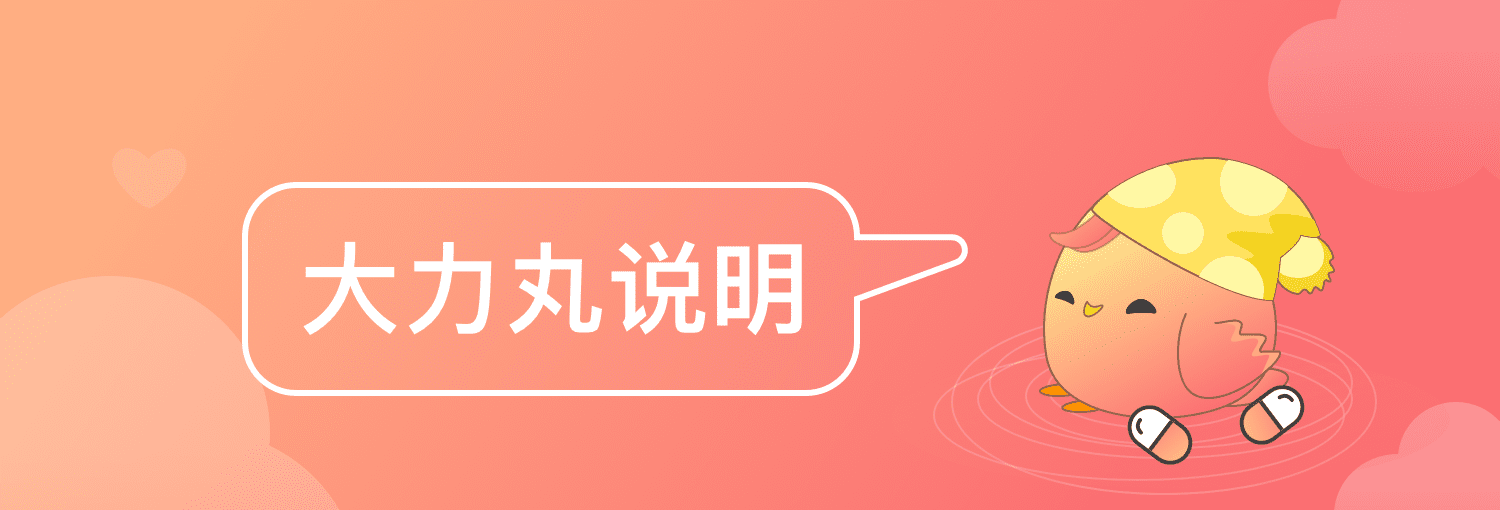
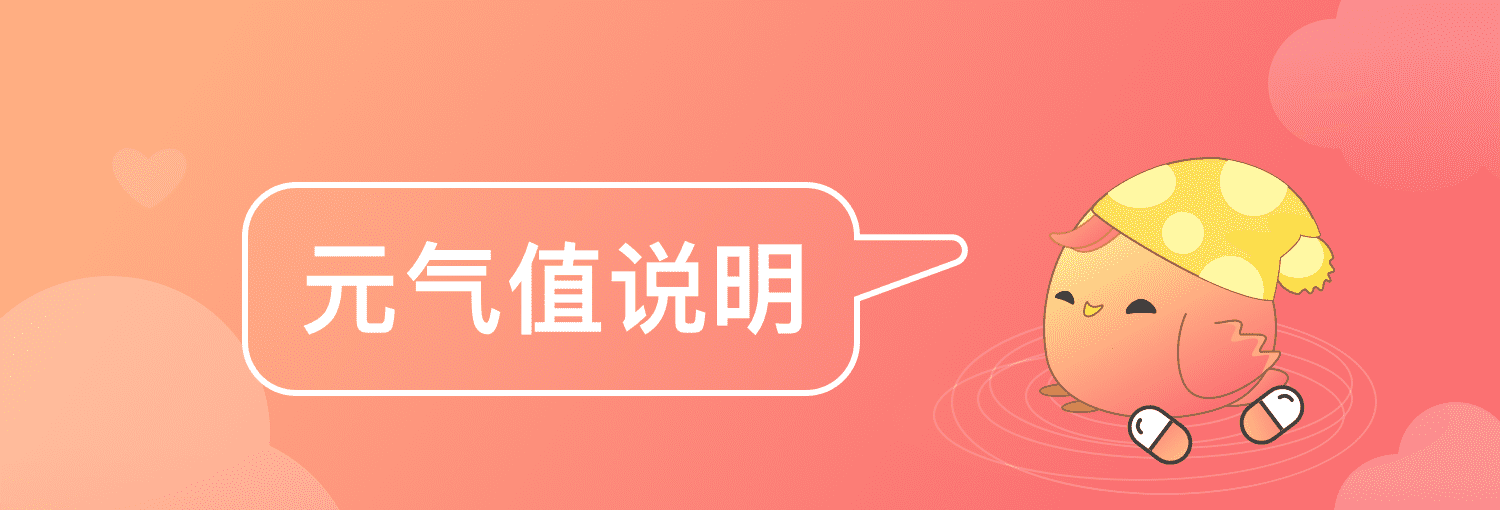
能量值 -> 元气值

diff --git a/src/utils/rules.js b/src/utils/rules.js
@@ -1,30 +1,30 @@
 export const wanRules = [{
-        title: '一、什么是能量值',
+        title: '一、什么是元气值',
         content: [
-            '能量值是由盛世伟杰（北京）广告有限公司推出的游戏代币，可以兑换福利商城中的虚拟礼品，吃喝玩乐、大牌商品随心兑。',
+            '元气值是由盛世伟杰（北京）广告有限公司推出的游戏代币，可以兑换福利商城中的虚拟礼品，吃喝玩乐、大牌商品随心兑。',
         ],
     },
     {
-        title: '二、如何获得能量值',
+        title: '二、如何获得元气值',
         content: [
-            '1：每日登录可获得一定的能量值，每连续登录7天为一个周期，连续登录21天，有惊喜等你。',
-            '2：邀请好友可获得能量值，每成功邀请一个好友完成登录，可获得2能量值，最多每天可以获得10个能量值。',
-            '3：揍小鸡可获得能量值，揍小鸡获得的能量值数量随机，一定概率会出现暴击，暴击获得双倍能量值。',
+            '1：每日登录可获得一定的元气值，每连续登录7天为一个周期，连续登录21天，有惊喜等你。',
+            '2：邀请好友可获得元气值，每成功邀请一个好友完成登录，可获得2元气值，最多每天可以获得10个元气值。',
+            '3：揍小鸡可获得元气值，揍小鸡获得的元气值数量随机，一定概率会出现暴击，暴击获得双倍元气值。',
         ],
     },
     {
-        title: '三、能量值有效期',
+        title: '三、元气值有效期',
         content: [
-            '1：能量值获得之日起一年有效，如果在有效期内没有使用，将在次年该月月底失效。',
-            '例如：在2019年10月1日获得的能量值，将在2020年10月31日过期失效。',
-            '2：过期计算公式：本月过期能量值=上一年同月所得的能量值总和-上一年度同月所得能量值中被消费的能量值。',
-            '说明：能量值消费时，优先使用最近失效的能量值。',
+            '1：元气值获得之日起一年有效，如果在有效期内没有使用，将在次年该月月底失效。',
+            '例如：在2019年10月1日获得的元气值，将在2020年10月31日过期失效。',
+            '2：过期计算公式：本月过期元气值=上一年同月所得的元气值总和-上一年度同月所得元气值中被消费的元气值。',
+            '说明：元气值消费时，优先使用最近失效的元气值。',
         ],
     },
     {
         title: '四、特殊说明',
         content: [
-            '严禁通过作弊、不正当、非法手段等刷取能量值，一旦发现，将对作弊违规者严厉处罚，包括但不限于能量值一次性清零、回收全部权益、封禁账户等。严重者，追究其法律责任。',
+            '严禁通过作弊、不正当、非法手段等刷取元气值，一旦发现，将对作弊违规者严厉处罚，包括但不限于元气值一次性清零、回收全部权益、封禁账户等。严重者，追究其法律责任。',
         ],
     },
 ];

diff --git a/src/pages/major/mine/index.vue b/src/pages/major/mine/index.vue
@@ -2,7 +2,7 @@
   <div class="wrapper">
     <home-bar />
     <div class="summary" :class="{iphoneX: isIphoneX}">
-      <div class="info">{{userInfo.nickName || '我'}}的能量值</div>
+      <div class="info">{{userInfo.nickName || '我'}}的元气值</div>
       <div class="score">{{userData.score || 0}}</div>
       <div
         v-if="userInfo.nickName"
@@ -27,7 +27,7 @@
           </div>
         </div>
         <sign v-if="openId" :openId="openId" :signedDays="signedDays" />
-        <button open-type="share" class="share-button breath-animate">邀请好友立得100能量值</button>
+        <button open-type="share" class="share-button breath-animate">邀请好友立得100元气值</button>
         <scroll-tips />
       </div>
       <div class="section section-shadow">
@@ -64,7 +64,7 @@
         </div>
       </div>
     </div>
-    <sign-modal :show="signedInfo.isSigned" :title="`能量值+${signedInfo.score}`" />
+    <sign-modal :show="signedInfo.isSigned" :title="`元气值+${signedInfo.score}`" />
   </div>
 </template>
 <script>
@@ -134,7 +134,7 @@ export default {
   methods: {
     signed() {
       updateSignState(this.openId, res => {
-        // 打卡成功后 拉去最新的能量值数据
+        // 打卡成功后 拉去最新的元气值数据
         this.getUserData();
         this.signedInfo = {
           ...res,

diff --git a/src/pages/sub/order/booking/index.vue b/src/pages/sub/order/booking/index.vue
@@ -9,7 +9,7 @@
           <div
             v-if="!!goodsInfo.goodDownVirtual"
             class="source-price"
-          >{{goodsInfo.goodVirtual || 0}}能量值</div>
+          >{{goodsInfo.goodVirtual || 0}}元气值</div>
         </div>
         <div class="source-price">实际商品价格：{{goodsInfo.goodPrice || 0}}元</div>
       </div>
@@ -41,10 +41,10 @@
     </div>
     <div class="footer" :class="{'iphoneX-bottom': isIphoneX}">
       <div class="footer-left">
-        <div class="text">剩余能量值</div>
+        <div class="text">剩余元气值</div>
         {{userData.score}}
       </div>
-      <div @click="handleBooking" class="footer-right">{{canBuy ? "立即兑换" : "能量值不足，去赚取"}}</div>
+      <div @click="handleBooking" class="footer-right">{{canBuy ? "立即兑换" : "元气值不足，去赚取"}}</div>
     </div>
   </div>
 </template>
@@ -66,7 +66,7 @@ export default {
   },
   onLoad(param) {
     // fetch prizes info
-    // fetch 能量值 info
+    // fetch 元气值 info
     this.param = param;
     this.fetchGoodsInfo();
     this.getUserData();

diff --git a/src/pages/major/poult/components/poult.vue b/src/pages/major/poult/components/poult.vue
@@ -27,12 +27,12 @@ export default {
     return {
       wanList: [],
       beatCount: 0, // 点击次数
-      hitTotalScore: 0, // 获得总能量值
+      hitTotalScore: 0, // 获得总元气值
       serialCount: 0, // 300ms 内连续点击的次数 -> 提高概率
       doubleCount: 0, // 暴击次数
       beatTimer: null, // debounce timerid
       serialDuration: 300, // 连续点击 timer 间隔
-      rate: 5, // 单次点击获得能量值概率 %
+      rate: 5, // 单次点击获得元气值概率 %
 
       statusIndex: 0, //当前timer 随机取值
       animateTimer: null,
@@ -159,7 +159,7 @@ export default {
         const minScore = Math.min(this.restThisPoultScore, this.restTotalScore);
         if (this.hitTotalScore >= minScore) {
           // NOTE: 提示语改一下
-          console.log("这只鸡已经挨揍了50次，再打也不会获得能量值了");
+          console.log("这只鸡已经挨揍了50次，再打也不会获得元气值了");
         } else if (value) {
           this.hitTotalScore += value;
           if (this.hitTotalScore >= minScore) {

diff --git a/src/pages/major/poult/index.vue b/src/pages/major/poult/index.vue
@@ -59,7 +59,7 @@
     <image class="cloud clound-2" src="/static/cloud2.png" />
     <image class="cloud clound-3" src="/static/cloud3.png" />
 
-    <sign-modal :show="signedInfo.isSigned" :title="`能量值+${signedInfo.score}`" />
+    <sign-modal :show="signedInfo.isSigned" :title="`元气值+${signedInfo.score}`" />
     <!-- <cut-mark v-if="showCut"></cut-mark> -->
     <view class="cut-mark" v-if="showCut">
       <view class="cut-content">
@@ -90,7 +90,7 @@ import { handleSign as updateSignState, fetchUserData } from "@/services";
 export default {
   data() {
     return {
-      totalScore: 0, // 获得总能量值
+      totalScore: 0, // 获得总元气值
       pageShow: true, // 当前页面是否onShow
       invate_openId: null, //邀请人Opoenid
       hitOpenId: "",
@@ -261,7 +261,7 @@ export default {
      */
     handleSign() {
       updateSignState(this.openId, res => {
-        // 打卡成功后 拉去最新的能量值数据
+        // 打卡成功后 拉去最新的元气值数据
         this.fetchIndexData();
         this.signedInfo = {
           ...res,

diff --git a/src/pages/sub/mine/score-detail/index.vue b/src/pages/sub/mine/score-detail/index.vue
@@ -2,13 +2,13 @@
   <div class="wrapper">
     <div class="header">
       <div @click="handleNavigateTo" class="tips">
-        了解能量值
+        了解元气值
         <image class="tips-icon" src="/static/wan.png" />
       </div>
       <div class="header-content">
         <div class="count">{{userData.score}}</div>
-        <div class="info">我的能量值余额</div>
-        <button open-type="share" class="button breath-animate">邀请好友赚100能量值</button>
+        <div class="info">我的元气值余额</div>
+        <button open-type="share" class="button breath-animate">邀请好友赚100元气值</button>
       </div>
     </div>
     <scroll-view scroll-y class="content" @scrolltolower="handleLoadData">

diff --git a/src/pages/sub/mine/prizes-list/components/prizeItem.vue b/src/pages/sub/mine/prizes-list/components/prizeItem.vue
@@ -10,7 +10,7 @@
         >{{prize.goodDownVirtual || prize.goodVirtual || 0}}</text>
         <text
           :class="['prize-source-price', !!prize.goodDownVirtual ? 'disabled' : '']"
-        >{{prize.goodVirtual}}能量值</text>
+        >{{prize.goodVirtual}}元气值</text>
       </div>
       <div class="prize-changeNum">已兑换: {{prize.exchangeNum || 0}}</div>
       <div class="prize-remainNum">剩余: {{prize.goodNum}}</div>

diff --git a/src/pages/sub/mine/rules/index.vue b/src/pages/sub/mine/rules/index.vue
@@ -4,7 +4,7 @@
       <image mode="aspectFill" class="header-bg" src="/static/rules_bg.png" />
     </view>
     <view class="content">
-      <view class="content-title">能量值说明</view>
+      <view class="content-title">元气值说明</view>
       <view class="rule-list" v-for="(item, index) in wanRules" :key="index">
         <view class="rule-title" v-if="item.title">{{item.title}}</view>
         <view class="rule-content">

diff --git a/src/pages/major/mine/components/goods-list/index.vue b/src/pages/major/mine/components/goods-list/index.vue
@@ -10,7 +10,7 @@
               <div>
                 <div
                   :class="['prizes-source-price', !!item.goodDownVirtual ? 'disabled' : '']"
-                >{{item.goodVirtual}}能量值</div>
+                >{{item.goodVirtual}}元气值</div>
                 <div v-if="!!item.goodDownVirtual" class="prizes-price">{{item.goodDownVirtual}}</div>
               </div>
             </div>

diff --git a/src/store/index.js b/src/store/index.js
@@ -11,7 +11,7 @@ const store = new Vuex.Store({
         isIphoneX: false,
         bookingSuccessTips: '',
         publicKey: '', // RSA 加密KEY
-        hitRate: 5, // 命中能量值概率
+        hitRate: 5, // 命中元气值概率
         gainRate: 5, // 暴击概率
         scoreList: [1, 2, 3], // 随机分值表
         rateConfig: {}

diff --git a/src/pages/sub/order/detail/index.vue b/src/pages/sub/order/detail/index.vue
@@ -6,7 +6,7 @@
         <div class="info">
           <div class="item-title">{{orderDetail.goodName}}</div>
           <div class="item-subtitle">
-            消耗能量值：
+            消耗元气值：
             <span class="wan-count">{{orderDetail.score || 0}}</span>
           </div>
         </div>

diff --git a/src/services/index.js b/src/services/index.js
@@ -50,7 +50,7 @@ export function handleSign(openId, callback) {
 }
 
 /**
- * 获取 用户数据 能量值数量 排名 登录天数 等信息
+ * 获取 用户数据 元气值数量 排名 登录天数 等信息
  * @param {*} openId 
  */
 export const fetchUserData = openId => {
